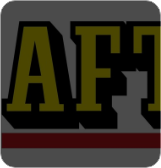
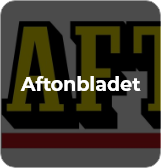
initial commit

Changed region(s): [[0.1242, 0.4464, 0.8696, 0.5655]]

diff --git a/lib/screens/screen_two.dart b/lib/screens/screen_two.dart
@@ -17,6 +17,7 @@ class _SecondScreenState extends State<SecondScreen> {
         children: <Widget>[
           SizedBox(height: 30,),
           Row(
+            mainAxisAlignment: MainAxisAlignment.spaceAround,
             children: <Widget>[
               IconButton(icon: Icon(Icons.chevron_left, size: 35, color: Colors.grey[800],),
               onPressed: ()
@@ -24,6 +25,14 @@ class _SecondScreenState extends State<SecondScreen> {
                   Navigator.pop(context);
                 },
               ),
+              SizedBox(width: 50,),
+              Center(
+                child: Text('Aftonbladet',
+                  style: TextStyle(
+                    fontSize: 18.0, color: Colors.black, fontWeight: FontWeight.w600, fontFamily: 'Monteserrat',
+                  ),),
+              ),
+              SizedBox(width: 100,),
             ],
           ),
           SizedBox(height: 20,),
@@ -64,7 +73,7 @@ class _SecondScreenState extends State<SecondScreen> {
                   ),
                   Center(
                       child: Image(
-                        image: AssetImage('images/profileimage.png'),
+                        image: AssetImage('images/img_one.png'),
                         height: 120,
                       ),
                   ),

diff --git a/lib/screens/screen_one.dart b/lib/screens/screen_one.dart
@@ -1,7 +1,6 @@
 import 'package:flutter/cupertino.dart';
 import 'package:flutter/material.dart';
 import 'package:kevinflutterapp2/screens/screen_two.dart';
-import 'package:kevinflutterapp2/widgets/gridviewWidget.dart';
 
 class FirstScreen extends StatefulWidget {
   @override
@@ -40,7 +39,8 @@ class _FirstScreenState extends State<FirstScreen> {
                   GestureDetector(
                     onTap: ()
                     {
-
+                      Navigator.push(context,
+                        MaterialPageRoute(builder: (context) => SecondScreen()),);
                     },
                     child: Image(
                       image: AssetImage('images/gridone.png',),
